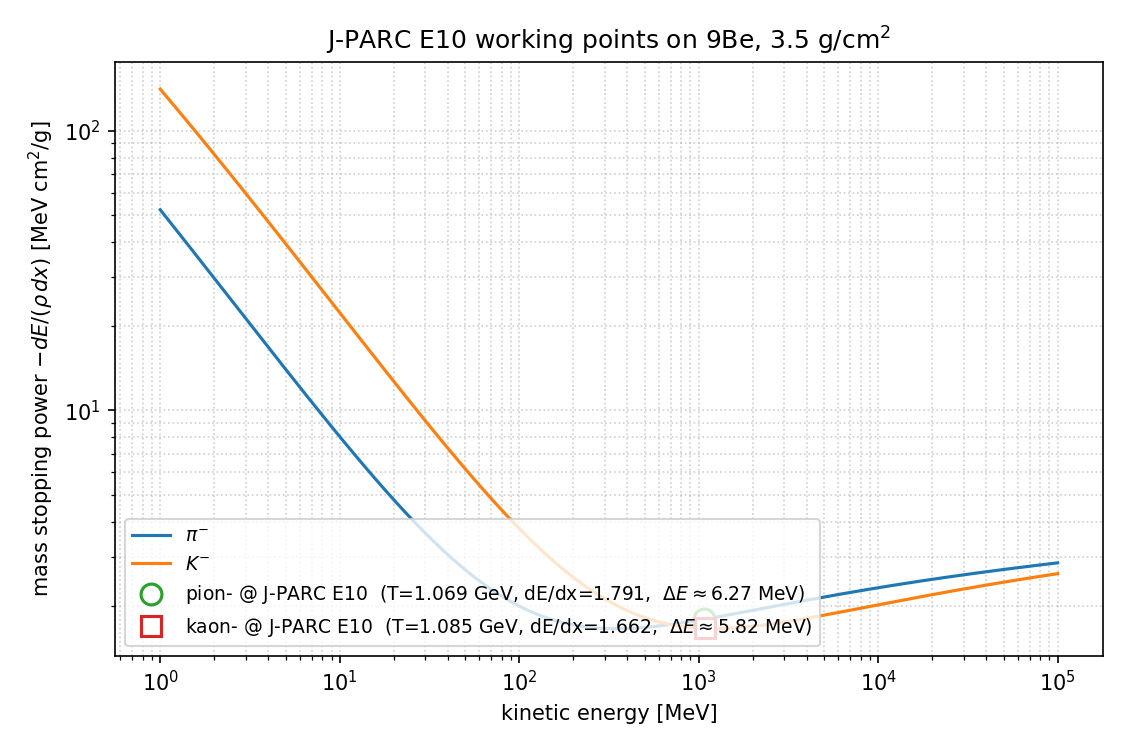
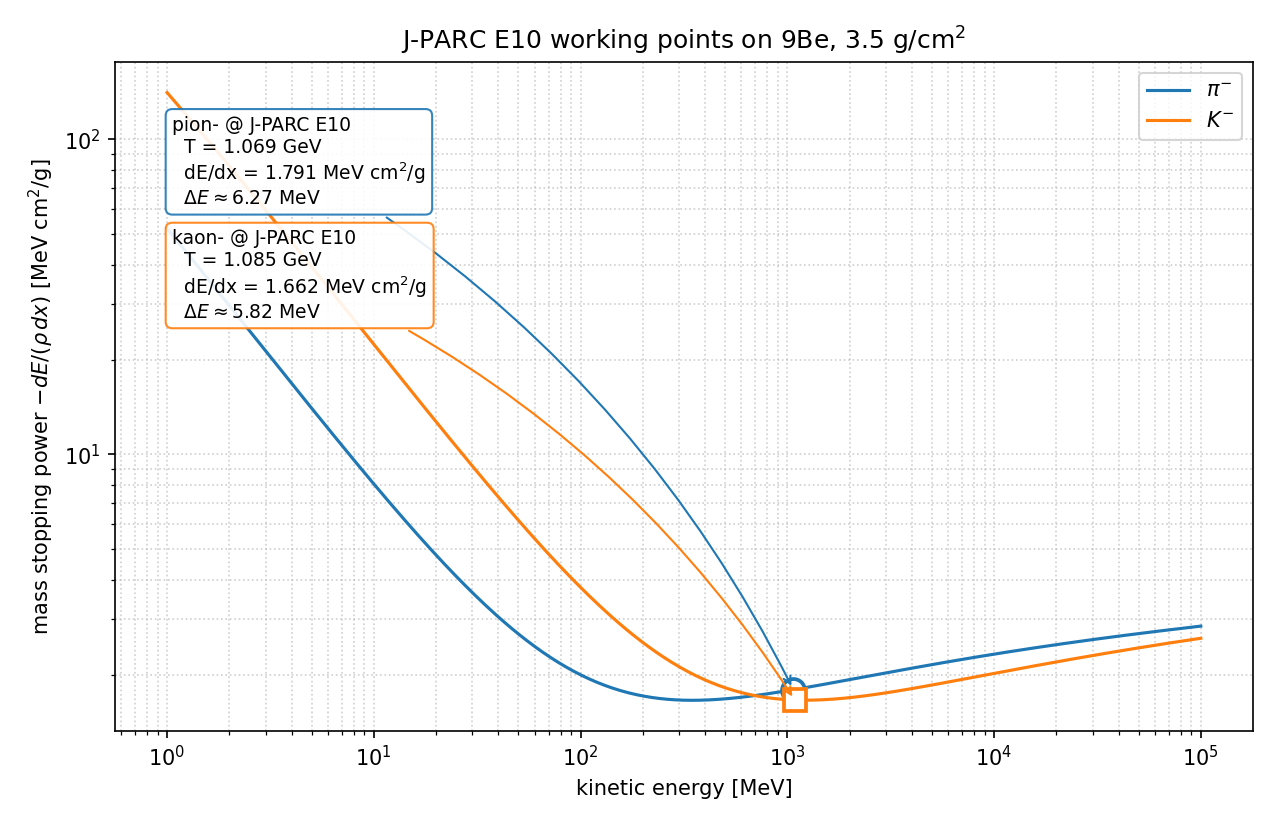
Move J-PARC E10 marker labels off the curves
Annotate each working point with a callout box in the empty upper-left
corner connected by a leader arrow, so the labels no longer sit on top
of the markers / MIP curves. Color-coded per beam.

diff --git a/examples/plot_verification.py b/examples/plot_verification.py
@@ -91,36 +91,52 @@ def _marker_for_config(yaml_path: Path) -> tuple[str, float, float, float]:
 
 
 def plot_jparc_e10_marker() -> Path:
-  fig, ax = plt.subplots(figsize=(7.5, 5.0))
+  fig, ax = plt.subplots(figsize=(8.5, 5.5))
   curves = {
-    "pion-": _curve("pion-", "Be"),
-    "kaon-": _curve("kaon-", "Be"),
+    "pion-": (_curve("pion-", "Be"), r"$\pi^{-}$", "C0"),
+    "kaon-": (_curve("kaon-", "Be"), r"$K^{-}$", "C1"),
   }
-  for name, (t, s) in curves.items():
-    label = {"pion-": r"$\pi^{-}$", "kaon-": r"$K^{-}$"}[name]
-    ax.loglog(t, s, "-", label=label)
+  for _, ((t, s), label, color) in curves.items():
+    ax.loglog(t, s, "-", color=color, label=label)
 
-  for cfg_name, marker in [
-    ("jparc_e10_pim.yaml", "o"),
-    ("jparc_e10_km.yaml", "s"),
-  ]:
+  # Place markers with leader-line annotations into the empty upper-left
+  # corner so the labels don't obscure the curves near MIP.
+  marker_specs = [
+    ("jparc_e10_pim.yaml", "o", "C0", (0.05, 0.92)),
+    ("jparc_e10_km.yaml", "s", "C1", (0.05, 0.75)),
+  ]
+  for cfg_name, marker, color, (x_ax, y_ax) in marker_specs:
     name, t, s, de = _marker_for_config(CFG_DIR / cfg_name)
     ax.loglog(
-      t, s, marker, markersize=10, markeredgewidth=1.5,
-      markerfacecolor="white",
-      label=(
-        f"{name} @ J-PARC E10  (T={t / 1000.0:.3f} GeV, "
-        f"dE/dx={s:.3f},  $\\Delta E\\approx${de:.2f} MeV)"
-      ),
+      t, s, marker,
+      markersize=11, markeredgewidth=1.8,
+      markeredgecolor=color, markerfacecolor="white",
+    )
+    text = (
+      f"{name} @ J-PARC E10\n"
+      f"  T = {t / 1000.0:.3f} GeV\n"
+      f"  dE/dx = {s:.3f} MeV cm$^2$/g\n"
+      f"  $\\Delta E\\approx${de:.2f} MeV"
+    )
+    ax.annotate(
+      text,
+      xy=(t, s),
+      xycoords="data",
+      xytext=(x_ax, y_ax),
+      textcoords="axes fraction",
+      fontsize=9,
+      ha="left", va="top",
+      bbox={"boxstyle": "round,pad=0.35", "fc": "white",
+            "ec": color, "lw": 1.0, "alpha": 0.9},
+      arrowprops={"arrowstyle": "->", "color": color, "lw": 1.0,
+                  "connectionstyle": "arc3,rad=-0.15"},
     )
 
-  # Target band: 9Be 3.5 g/cm^2 grammage line is the same as multiplying
-  # the y-axis value by 3.5 to get mean dE.
   ax.set_xlabel("kinetic energy [MeV]")
   ax.set_ylabel(r"mass stopping power $-dE/(\rho\,dx)$ [MeV cm$^2$/g]")
   ax.set_title(r"J-PARC E10 working points on 9Be, 3.5 g/cm$^2$")
   ax.grid(True, which="both", linestyle=":", alpha=0.6)
-  ax.legend(fontsize=9, loc="lower left")
+  ax.legend(fontsize=10, loc="upper right")
   fig.tight_layout()
   out = FIG_DIR / "jparc_e10_marker.png"
   fig.savefig(out, dpi=150)